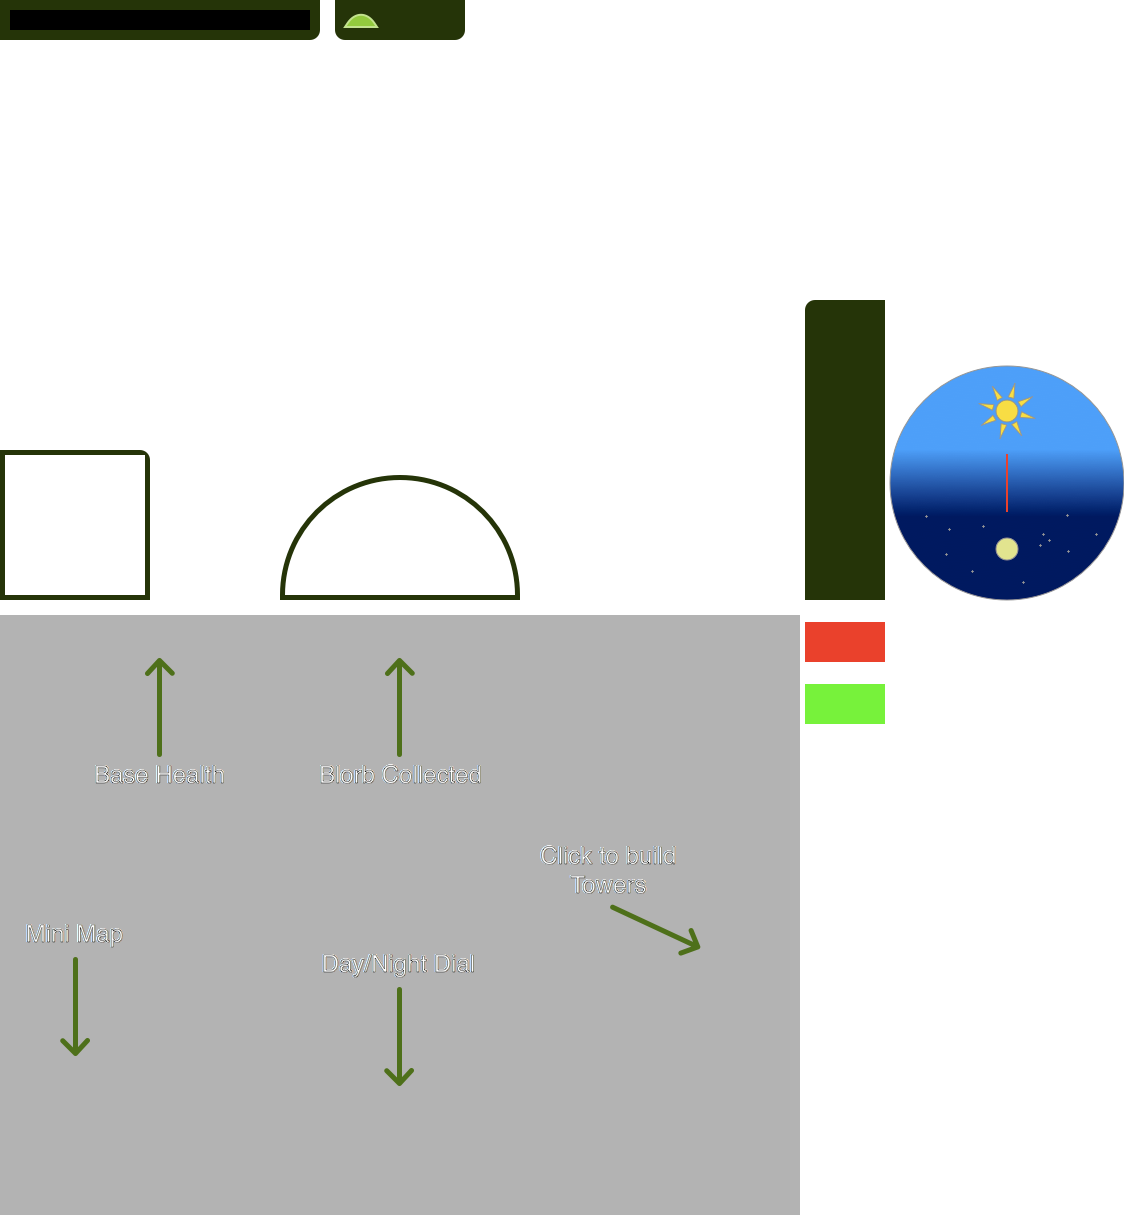
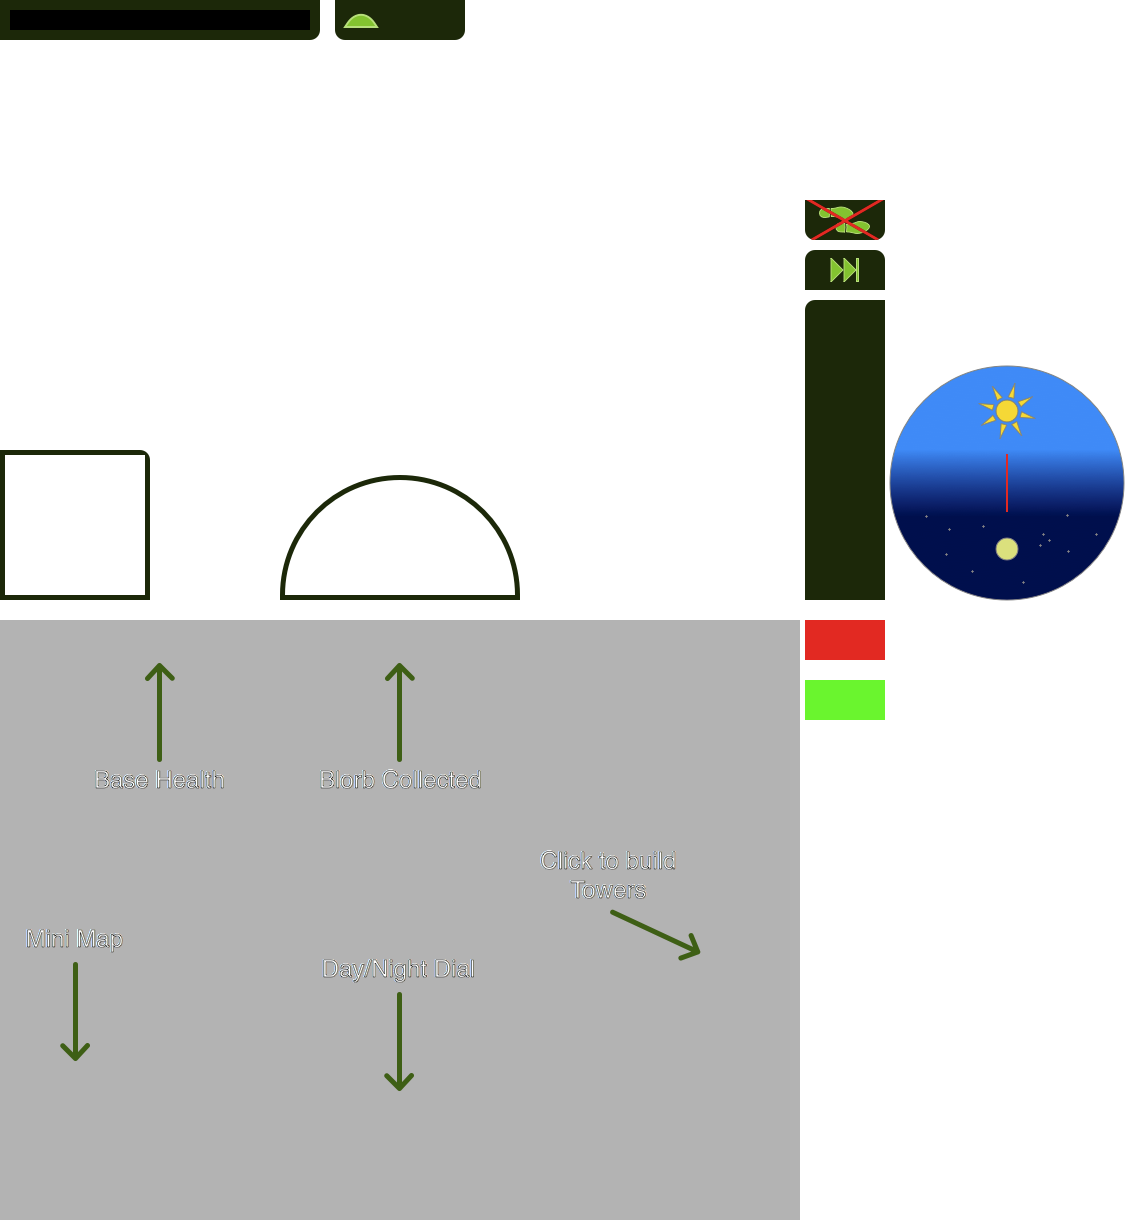
lots of gui improvements, potentially committing issues with GUIManager

diff --git a/Assets/Managers/GUIManager.cs b/Assets/Managers/GUIManager.cs
@@ -5,13 +5,19 @@ public class GUIManager : MonoBehaviour {
 	public GUIText gameOverText, instructionsText, titleText;
 	public Camera minimap;
 	public GameObject HUD;
+	public SpriteRenderer HUDTutorial;
+
+	private int viewStage = 0; // 0- title screen, 1- tutorial screen, 2- main game, 3- game over screen
+	private bool shownTutorial = false; // skip stage 1 after seeing it once
 
 	void setHUD (bool enabled) {
 		SpriteRenderer[] renderers = HUD.GetComponentsInChildren<SpriteRenderer>();
 		TextMesh[] texts = HUD.GetComponentsInChildren<TextMesh> ();
 
 		foreach (SpriteRenderer renderer in renderers) {
-			renderer.enabled = enabled;
+			if (renderer.sprite.name != "hud_4") {
+				renderer.enabled = enabled;
+			}
 		}
 
 		foreach (TextMesh text in texts) {
@@ -33,12 +39,18 @@ public class GUIManager : MonoBehaviour {
 		gameOverText.enabled = true;
 		instructionsText.enabled = true;
 		instance.setHUD (false);
-		enabled = true;
+		viewStage = 3;
 	}
 	
 	void Update () {
-		if(Input.GetButtonDown("Jump")){
-			GameEventManager.TriggerGameStart();
+		if (Input.GetButtonDown("Jump")) {
+			if (viewStage == 0 || viewStage == 3) {
+				GameEventManager.TriggerGameStart();
+			} else if (viewStage == 1) {
+				HUDTutorial.enabled = false;
+				Time.timeScale = 1;
+				viewStage = 2;
+			}
 		}
 	}
 	
@@ -47,10 +59,13 @@ public class GUIManager : MonoBehaviour {
 		instructionsText.enabled = false;
 		titleText.enabled = false;
 		instance.setHUD (true);
-		enabled = false;
-	}
+		viewStage = 2;
 
-//	void OnGUI () {
-//		GUI.Label (new Rect (0, 0, Screen.width, Screen.height), "", bgStyle);
-//	}
+		if (!shownTutorial) {
+			HUDTutorial.enabled = true;
+			Time.timeScale = 0; // pause time
+			shownTutorial = true;
+			viewStage = 1;
+		}
+	}
 }

diff --git a/Assets/Base/Center.cs b/Assets/Base/Center.cs
@@ -2,7 +2,6 @@
 using System.Collections;
 
 public class Center : MonoBehaviour {
-
     public Transform turret;
     public Transform wall;
     public Transform collector;
@@ -10,7 +9,23 @@ public class Center : MonoBehaviour {
     public Transform placement;
     public Transform healthbar;
     public TextMesh resourcePoolText;
+
+    private const float pixelOffset = 750.0F;
+    private const float placementOffset = 0.725f;
+
+	private float healthInternal;
+	private float resourcesInternal;
+
     public float speed;
+
+	public float health
+	{
+		get { return healthInternal;}
+		set {
+			healthInternal = value;
+			healthbar.localScale = new Vector2 (health, 1f);
+		}
+	}
 
 	public float blorbAmount
 	{ 
@@ -45,15 +60,10 @@ public class Center : MonoBehaviour {
 
     private bool isActive;
 
-    private const float placementOffset = 0.725f;
-    private float health;
-    private float resourcesInternal;
-
 	void GameStart () {
 		enabled = true;
 
 		health = 100f;
-		healthbar.localScale = new Vector2 (health * 1.5f, 1f);
 
 		blorbAmount = 100;
 		//resourcePoolText.text = resourcePool.ToString ();
@@ -264,7 +274,6 @@ public class Center : MonoBehaviour {
     public void takeDamage(float damage)
     {
         health -= damage;
-		healthbar.localScale = new Vector2 (health * 1.5f, 1f);
 
 		if (health <= 0f) {
 			GameEventManager.TriggerGameOver();
